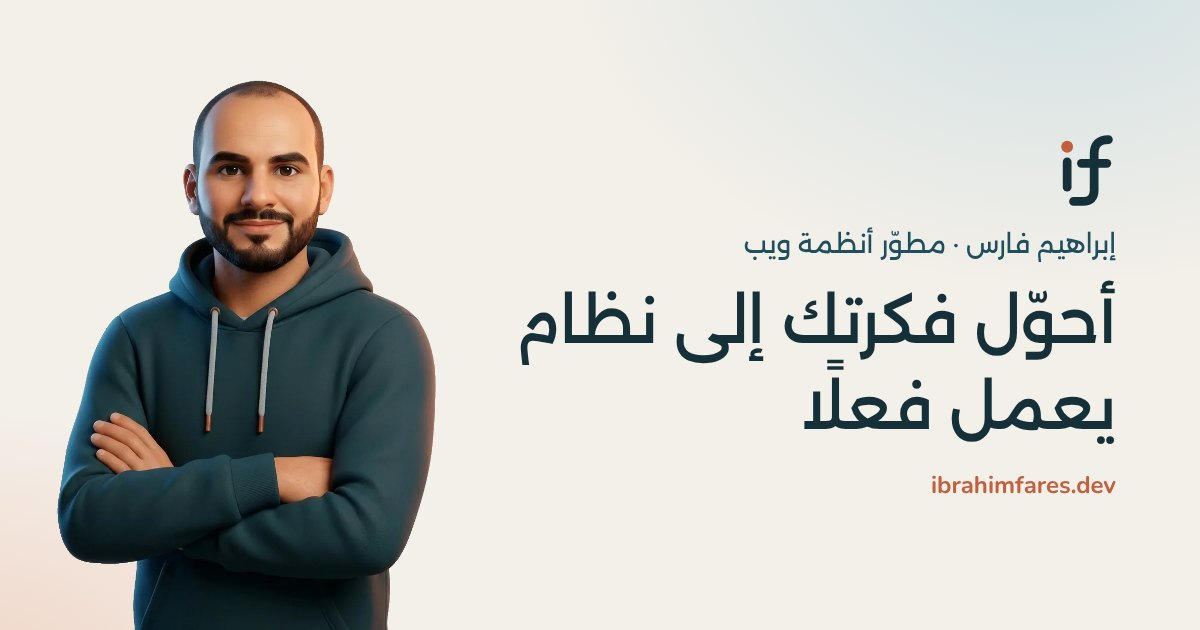
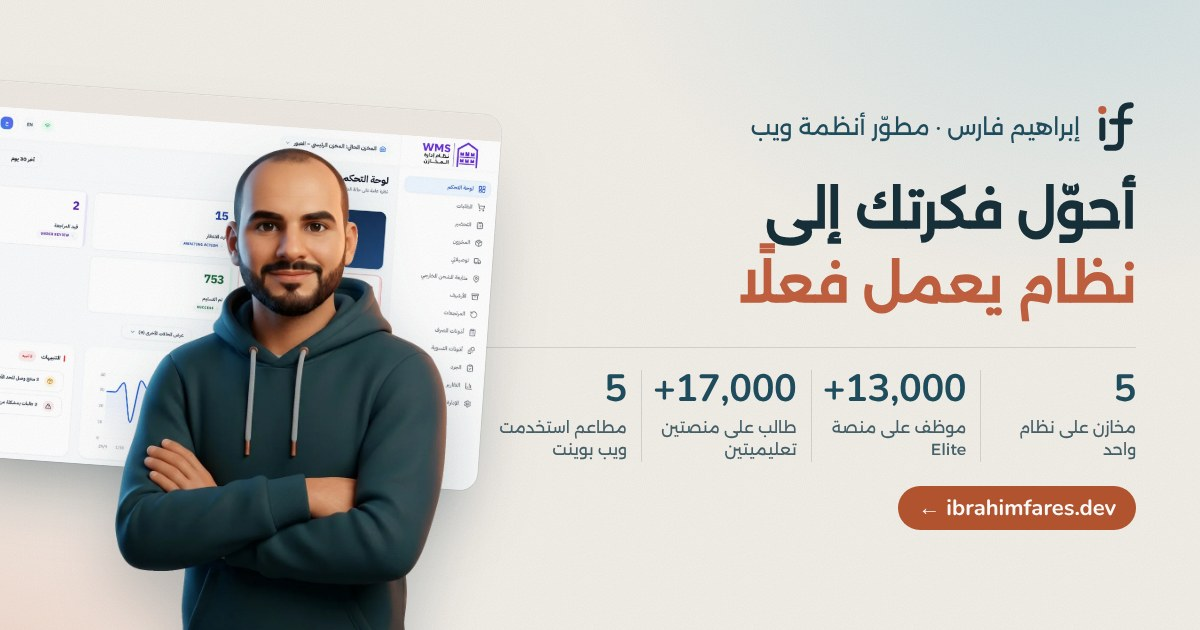
Share previews: new home social images with proof numbers and a real screen; stronger titles and descriptions
- public/og/home-ar.jpg, home-en.jpg: promise + clay accent, the four proof
  numbers, the WMS dashboard behind the character, address button.
  Linked as ?v=2 so Facebook, WhatsApp and LinkedIn fetch the new image.
- meta: title carries the promise, description carries the numbers and a call
  to action; new meta.siteName ("Ibrahim Fares") for the site name and case
  study titles ("WMS · Ibrahim Fares").
- scripts/og/render.py renders the new template (base URL and site dir as args).

diff --git a/scripts/og/og.html b/scripts/og/og.html
@@ -1,36 +1,65 @@
 <!doctype html>
-<!-- Social image (1200×630) for the home page. Rendered to public/og/home-<lang>.png (saved as .jpg)
-     by scripts/og/render.py against a running build (it borrows the site's fonts). -->
+<!-- Social image (1200×630) for the home page: the promise, the proof (three numbers) and a real
+     screen behind the character. Rendered to public/og/home-<lang>.jpg by scripts/og/render.py
+     against a running build (it borrows the site's fonts and images). -->
 <html><head><meta charset="utf-8">
 <link rel="stylesheet" href="__CSS__">
 <style>
   html,body{margin:0}
-  .og{width:1200px;height:630px;position:relative;overflow:hidden;background:
-    radial-gradient(700px 480px at 88% -8%, #CFE0E3 0%, transparent 70%),
-    radial-gradient(640px 420px at -4% 112%, #F0D2C3 0%, transparent 70%), #F3EFE9;
-    color:#16303A;display:flex;align-items:center;box-sizing:border-box;padding:0 84px}
-  .txt{width:640px;display:flex;flex-direction:column;gap:22px;position:relative;z-index:2}
-  .mark{width:58px;height:77px}
-  .eyebrow{font-size:26px;color:#1F4E5F}
-  .head{font-weight:500;font-size:62px;line-height:1.38}
-  [lang=en] .head{font-family:Nunito;font-weight:700;font-size:64px;line-height:1.12;letter-spacing:-0.02em}
-  [lang=en] .eyebrow{font-family:Nunito;font-weight:600}
-  .url{font-family:Nunito;font-weight:700;font-size:24px;color:#C2603F;direction:ltr;unicode-bidi:isolate}
+  .og{width:1200px;height:630px;position:relative;overflow:hidden;box-sizing:border-box;color:#16303A;
+    background:
+      radial-gradient(720px 500px at 92% -10%, #CFE0E3 0%, transparent 70%),
+      radial-gradient(640px 420px at -6% 115%, #F0D2C3 0%, transparent 70%), #F3EFE9}
+  [dir=rtl] .og{background:
+      radial-gradient(720px 500px at 8% -10%, #CFE0E3 0%, transparent 70%),
+      radial-gradient(640px 420px at 106% 115%, #F0D2C3 0%, transparent 70%), #F3EFE9}
+
+  /* the proof side: a real screen of the WMS, the character in front of it */
+  .shot{position:absolute;top:96px;inset-inline-end:-70px;width:560px;border-radius:18px;background:#fff;
+    box-shadow:0 40px 80px -36px rgba(22,48,58,.55),0 0 0 1px rgba(22,48,58,.08);overflow:hidden;
+    transform:rotate(-4deg)}
+  [dir=rtl] .shot{transform:rotate(4deg)}
+  .shot .bar{height:26px;background:#EFEAE3;display:flex;gap:7px;align-items:center;padding:0 12px;direction:ltr}
+  .shot .bar i{width:9px;height:9px;border-radius:50%;background:#D8D1C7;display:block}
+  .shot img{display:block;width:100%}
+  .av{position:absolute;bottom:-34px;height:560px;inset-inline-end:100px;filter:drop-shadow(0 30px 30px rgba(22,48,58,.25))}
+
+  /* the words */
+  .txt{position:absolute;top:0;bottom:0;inset-inline-start:64px;width:650px;display:flex;flex-direction:column;justify-content:center;gap:20px;z-index:2}
+  .top{display:flex;align-items:center;gap:16px}
+  .mark{width:40px;height:53px;flex:none}
+  .eyebrow{font-size:23px;color:#1F4E5F}
+  .head{font-weight:600;font-size:52px;line-height:1.42}
+  .head b{font-weight:600;color:#C2603F}
+  .stats{display:flex;gap:0;margin-top:6px;border-top:1.5px solid rgba(22,48,58,.14);padding-top:22px}
+  .stat{flex:1 1 0;min-width:0;padding-inline-end:14px;margin-inline-end:14px;border-inline-end:1.5px solid rgba(22,48,58,.14)}
+  .stat:last-child{border:0;margin:0;padding:0}
+  .num{font-family:Nunito;font-weight:800;font-size:38px;line-height:1;color:#1F4E5F;direction:ltr;unicode-bidi:isolate;display:inline-block;letter-spacing:-.01em}
+  .lab{font-size:16px;line-height:1.4;color:#46616a;margin-top:8px}
+  .url{display:inline-flex;align-items:center;gap:10px;align-self:flex-start;margin-top:4px;
+    font-family:Nunito;font-weight:800;font-size:22px;color:#fff;background:#B5552F;border-radius:999px;padding:9px 20px;direction:ltr}
   [lang=ar] .txt{font-family:Alexandria}
-  [lang=ar] .url{text-align:right}
-  .av{position:absolute;bottom:-40px;height:640px;inset-inline-end:40px}
+  [lang=en] .txt{font-family:Nunito}
+  [lang=en] .head{font-weight:800;font-size:56px;line-height:1.1;letter-spacing:-.025em}
+  [lang=en] .head b{font-weight:800}
+  [lang=en] .eyebrow{font-weight:600}
+  [lang=en] .lab{font-size:16px}
 </style></head>
 <body><div class="og" lang="__LANG__" dir="__DIR__">
-  <div class="txt">
-    <svg class="mark" viewBox="16.5 8.5 73 97" fill="none" stroke-linecap="round" stroke-linejoin="round">
-      <path d="M28 78 V46" stroke="#16303A" stroke-width="11"/>
-      <path d="M80 18 Q62 18 62 36 V82 Q62 96 48 96 H36" stroke="#16303A" stroke-width="11"/>
-      <path d="M46 48 H78" stroke="#16303A" stroke-width="11"/>
-      <circle cx="28" cy="27" r="7.5" fill="#C2603F"/>
-    </svg>
-    <div class="eyebrow">__EYEBROW__</div>
-    <div class="head">__HEAD__</div>
-    <div class="url">ibrahimfares.dev</div>
-  </div>
+  <div class="shot"><div class="bar"><i></i><i></i><i></i></div><img src="__SHOT__"></div>
   <img class="av" src="__AVATAR__">
+  <div class="txt">
+    <div class="top">
+      <svg class="mark" viewBox="16.5 8.5 73 97" fill="none" stroke-linecap="round" stroke-linejoin="round">
+        <path d="M28 78 V46" stroke="#16303A" stroke-width="11"/>
+        <path d="M80 18 Q62 18 62 36 V82 Q62 96 48 96 H36" stroke="#16303A" stroke-width="11"/>
+        <path d="M46 48 H78" stroke="#16303A" stroke-width="11"/>
+        <circle cx="28" cy="27" r="7.5" fill="#C2603F"/>
+      </svg>
+      <div class="eyebrow">__EYEBROW__</div>
+    </div>
+    <div class="head">__HEAD__</div>
+    <div class="stats">__STATS__</div>
+    <div class="url">__URL__</div>
+  </div>
 </div></body></html>

diff --git a/src/app/[locale]/layout.tsx b/src/app/[locale]/layout.tsx
@@ -44,7 +44,7 @@ export async function generateMetadata({
     metadataBase: new URL(SITE_URL),
     title: t("title"),
     description: t("description"),
-    applicationName: t("title"),
+    applicationName: t("siteName"),
     authors: [
       { name: lang === "ar" ? "إبراهيم فارس" : "Ibrahim Fares", url: SITE_URL },
     ],
@@ -55,14 +55,14 @@ export async function generateMetadata({
     openGraph: {
       type: "website",
       url: `/${locale}`,
-      siteName: t("title"),
+      siteName: t("siteName"),
       title: t("title"),
       description: t("description"),
       locale: OG_LOCALE[lang],
       alternateLocale: OG_LOCALE[lang === "ar" ? "en" : "ar"],
       images: [
         {
-          url: `/og/home-${lang}.jpg`,
+          url: `/og/home-${lang}.jpg?v=2`, // ?v=2: a new address, so platforms fetch the new image
           width: 1200,
           height: 630,
           alt: t("title"),
@@ -73,7 +73,7 @@ export async function generateMetadata({
       card: "summary_large_image",
       title: t("title"),
       description: t("description"),
-      images: [`/og/home-${lang}.jpg`],
+      images: [`/og/home-${lang}.jpg?v=2`],
     },
   };
 }

diff --git a/src/app/[locale]/projects/[slug]/page.tsx b/src/app/[locale]/projects/[slug]/page.tsx
@@ -62,7 +62,7 @@ export async function generateMetadata({
   if (!p) return {};
   const lang: Lang = locale === "en" ? "en" : "ar";
   const t = await getTranslations({ locale, namespace: "meta" });
-  const title = `${p.name[lang]} · ${t("title")}`;
+  const title = `${p.name[lang]} · ${t("siteName")}`;
   // Branded social card (logo, project name, line, address) from scripts/og/render-projects.py
   const images = [{ url: `${SITE_URL}/og/projects/${slug}-${lang}.jpg`, width: 1200, height: 630, alt: p.title[lang] }];
   return {
@@ -79,7 +79,7 @@ export async function generateMetadata({
     openGraph: {
       type: "article",
       url: `/${locale}/projects/${slug}`,
-      siteName: t("title"),
+      siteName: t("siteName"),
       title,
       description: p.summary[lang],
       locale: OG_LOCALE[lang],

diff --git a/src/components/layout/Footer.tsx b/src/components/layout/Footer.tsx
@@ -14,7 +14,7 @@ export async function Footer() {
   return (
     <footer className="border-t border-line bg-surface/40">
       <div className="mx-auto flex max-w-6xl flex-col items-center gap-5 px-4 py-10 sm:flex-row sm:justify-between sm:px-6 lg:h-[96px] lg:py-0">
-        <a href={`/${locale}`} className="text-ink" aria-label={tm("title")}>
+        <a href={`/${locale}`} className="text-ink" aria-label={tm("siteName")}>
           <LogoLockup height={30} />
         </a>
         <p className="text-sm text-ink-muted">{tf("rights")}</p>

diff --git a/src/components/layout/Header.tsx b/src/components/layout/Header.tsx
@@ -82,7 +82,7 @@ export function Header() {
       }`}
     >
       <div className="mx-auto grid h-16 max-w-6xl grid-cols-[1fr_auto] items-center gap-6 px-4 sm:px-6 md:h-[72px] md:grid-cols-[1fr_auto_1fr]">
-        <a href={home} className="flex items-center justify-self-start text-ink" aria-label={`${tm("title")} · ${t("home")}`}>
+        <a href={home} className="flex items-center justify-self-start text-ink" aria-label={`${tm("siteName")} · ${t("home")}`}>
           <LogoMark size={36} />
         </a>
 

diff --git a/scripts/og/render.py b/scripts/og/render.py
@@ -1,18 +1,28 @@
 """Render the home page's social images (public/og/home-ar.jpg, home-en.jpg).
 
 Needs a running build on localhost:3100 (npm run build && PORT=3100 npm start)
-and Python Playwright. The text is the hero's approved copy from messages/.
+and Python Playwright. Text comes from messages/ (hero eyebrow, headline with its
+clay accent, the first three proof numbers); the screen is the WMS dashboard.
+Usage: python3 scripts/og/render.py [base-url] [site-dir]
 """
-import asyncio, json, pathlib, re
+import asyncio, json, pathlib, sys, urllib.request, re
 from playwright.async_api import async_playwright
 
-SITE = pathlib.Path(__file__).resolve().parents[2]
-BASE = "http://localhost:3100"
+SITE = pathlib.Path(sys.argv[2]) if len(sys.argv) > 2 else pathlib.Path(__file__).resolve().parents[2]
+BASE = sys.argv[1] if len(sys.argv) > 1 else "http://localhost:3100"
+SHOT = "/projects/wms/shots/desktop-dashboard-ar-1600.webp"
+AVATAR = "/avatar/06-arms-crossed-848.webp"
+# the hero's four proof numbers, with labels short enough for a small preview
+SHORT = {
+    "ar": ["مخازن على نظام واحد", "موظف على منصة Elite", "طالب على منصتين تعليميتين", "مطاعم استخدمت ويب بوينت"],
+    "en": ["warehouses on one system", "employees on Elite", "students on two learning platforms", "restaurants used Web Point"],
+}
 
 async def main():
     tpl = (SITE / "scripts/og/og.html").read_text()
-    css = sorted((SITE / ".next/static/chunks").glob("*.css"))
-    links = "".join(f'<link rel="stylesheet" href="{BASE}/_next/static/chunks/{c.name}">' for c in css)
+    page = urllib.request.urlopen(BASE + "/en").read().decode()
+    css = re.findall(r'href="(/_next/static/[^"]+\.css)"', page)
+    links = "".join(f'<link rel="stylesheet" href="{BASE}{c}">' for c in dict.fromkeys(css))
     out = SITE / "public/og"
     out.mkdir(exist_ok=True)
     async with async_playwright() as p:
@@ -20,16 +30,25 @@ async def main():
         pg = await b.new_page(viewport={"width": 1200, "height": 630})
         for lang in ("ar", "en"):
             hero = json.loads((SITE / f"messages/{lang}.json").read_text())["hero"]
+            accent = hero["headlineAccent"]
+            # the promise on one line, the clay accent on the next
+            head = hero["headline"].replace(accent, "").strip() + f"<br><b>{accent}</b>"
+            stats = "".join(
+                f'<div class="stat"><div class="num">{v}</div><div class="lab">{l}</div></div>'
+                for v, l in zip((s["value"] for s in hero["proof"]), SHORT[lang])
+            )
+            url = "← ibrahimfares.dev" if lang == "ar" else "ibrahimfares.dev →"
             html = (tpl.replace('<link rel="stylesheet" href="__CSS__">', links)
                     .replace("__LANG__", lang).replace("__DIR__", "rtl" if lang == "ar" else "ltr")
-                    .replace("__EYEBROW__", hero["eyebrow"]).replace("__HEAD__", hero["headline"])
-                    .replace("__AVATAR__", f"{BASE}/avatar/06-arms-crossed-848.webp"))
-            await pg.goto(BASE + "/favicon.ico")  # same origin for fonts
+                    .replace("__EYEBROW__", hero["eyebrow"]).replace("__HEAD__", head)
+                    .replace("__STATS__", stats).replace("__URL__", url)
+                    .replace("__SHOT__", BASE + SHOT).replace("__AVATAR__", BASE + AVATAR))
+            await pg.goto(BASE + "/robots.txt")  # same origin for fonts and images
             await pg.set_content(html, wait_until="networkidle")
             await pg.evaluate("document.fonts.ready")
-            await pg.wait_for_timeout(300)
+            await pg.wait_for_timeout(400)
             jpg = out / f"home-{lang}.jpg"
-            await pg.screenshot(path=str(jpg), type="jpeg", quality=86)
+            await pg.screenshot(path=str(jpg), type="jpeg", quality=88)
             print("wrote", jpg)
         await b.close()
 
